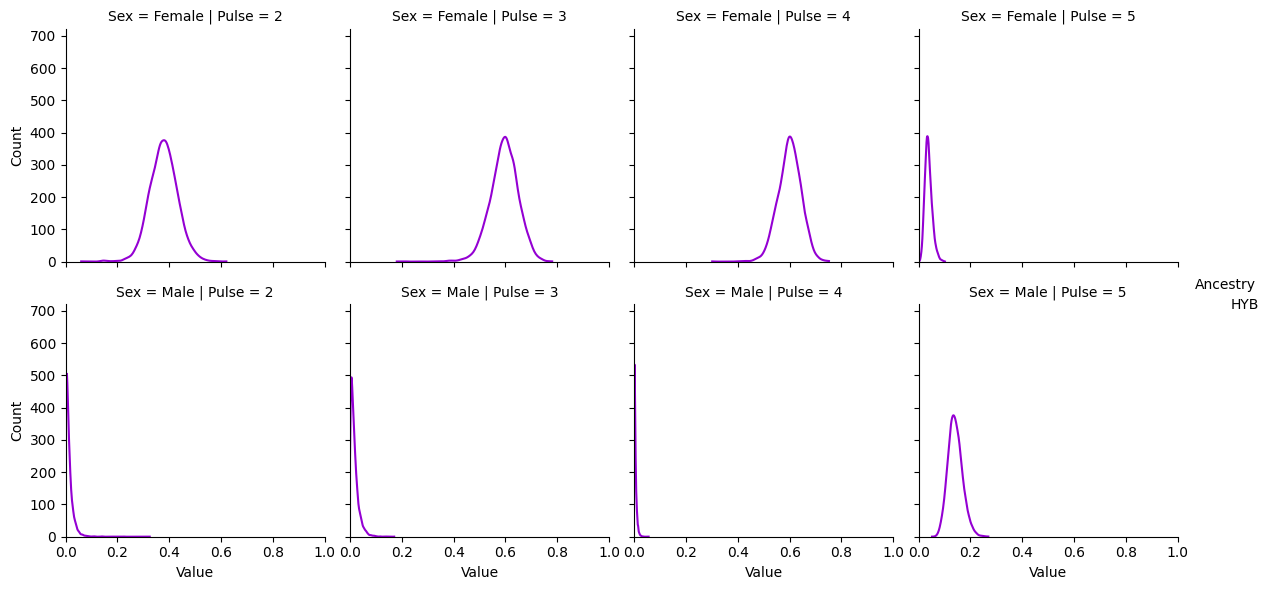
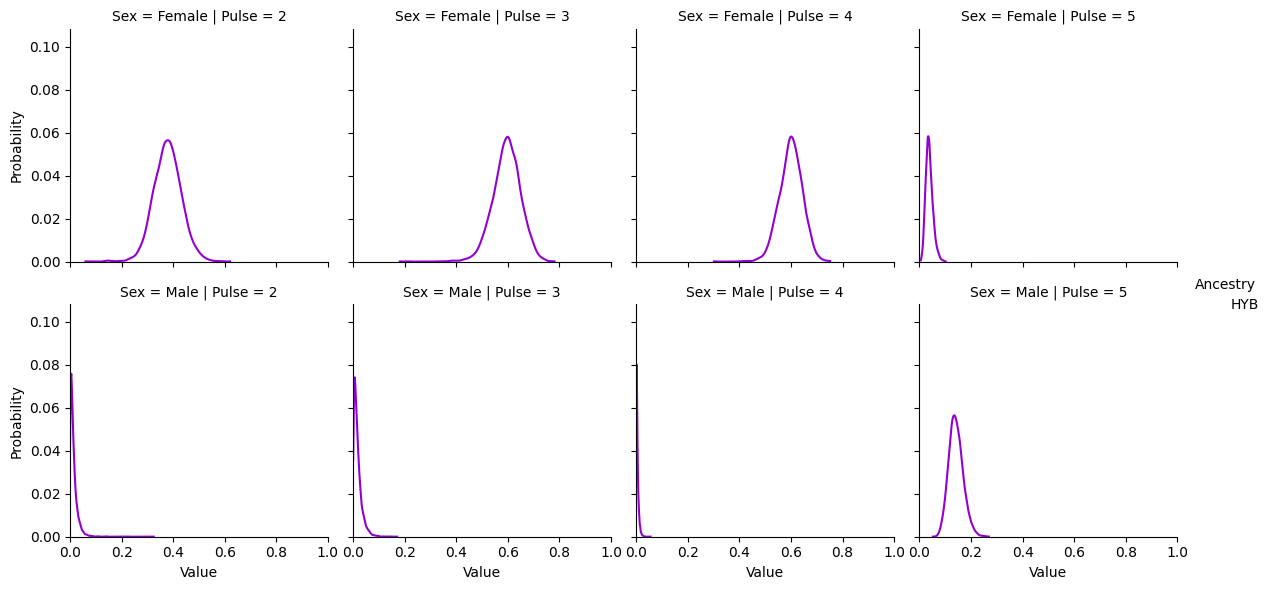
adding filter by confidence interval

diff --git a/script.py b/script.py
@@ -3,7 +3,7 @@ import seaborn as sns
 import numpy as np
 import matplotlib.pyplot as plt
 import math
-import scipy.stats
+import scipy.stats as st
 import csv
 import os
 
@@ -62,7 +62,7 @@ def plot_histograms(df, hybrid, type, savefile):
         colors = ["red", "deepskyblue", "green", "darkviolet"]
 
     graph = sns.FacetGrid(df_temp, col="Pulse", row="Sex", hue="Ancestry", palette=colors)
-    graph = (graph.map_dataframe(sns.histplot, x="Value", multiple=type).add_legend())
+    graph = (graph.map_dataframe(sns.histplot, x="Value", multiple=type, stat='probability').add_legend())
     # graph.set(yscale="log")
     plt.xlim([0, 1])
     graph.savefig(savefile)
@@ -79,7 +79,7 @@ def plot_lines(df, hybrid, savefile):
         colors = ["red", "deepskyblue", "green", "darkviolet"]
 
     graph = sns.FacetGrid(df_temp, col="Pulse", row="Sex", hue="Ancestry", palette=colors)
-    graph = (graph.map_dataframe(sns.histplot, x="Value", fill=False, edgecolor="k", linewidth=0, kde=True).add_legend())
+    graph = (graph.map_dataframe(sns.histplot, x="Value", fill=False, linewidth=0, kde=True, stat='probability').add_legend())
     # graph.set(yscale="log")
     plt.xlim([0, 1])
     graph.savefig(savefile)
@@ -113,19 +113,68 @@ def filter(percentage, df_unfiltered):
     df_filtered = df_filtered[~df_filtered["Scenario"].isin(scenarios)]
     return df_filtered
 
+def filter_ci(percentage, df_unfiltered):
+    ancestries = ("EUR", "AFR", "NAT", "HYB")
+    sexes = ("Female", "Male")
+    scenarios = set(())
+    df_filtered = df_unfiltered
+
+    for sex in range(0,2):
+        for pulse in range(1,6):
+            for anc in range(0,4):
+                #selecting only the values from this pulse, sex and ancestry
+                df_temp = df_filtered[(df_filtered["Pulse"] == pulse) & (df_filtered["Sex"] == sexes[sex]) & (df_filtered["Ancestry"] == ancestries[anc])]
+
+                mean_temp = df_temp["Value"].mean()
+                std_temp = df_temp["Value"].std(ddof=0)
+                sqrt_size_temp = np.sqrt(len(df_temp))
+
+                print(f'Pulse', pulse, sexes[sex], ancestries[anc])
+
+                print(f'mean, std and sqrt_size:', mean_temp, std_temp, sqrt_size_temp)
+
+                #calculating confidence interval bounds
+                ci_inf = mean_temp - 1.64*(std_temp/sqrt_size_temp)
+                ci_sup = mean_temp + 1.64*(std_temp/sqrt_size_temp)
+
+                print(ci_inf, ci_sup)
+
+                size = df_temp.shape[0]
+                #avoiding the null stats (HYB percentages in the first pulse)
+                if ci_inf != 0:
+                    #searches for the scenarios that are outside the 90% HDR
+                    for i in range(size):
+                        #if the value is outside the quantiles, we add to the set of scenarios which will be filtered out
+                        if ((df_temp.iloc[i][4] < ci_inf) or (df_temp.iloc[i][4] > ci_sup)):
+                            scenarios.add(df_temp.iloc[i][0])
+
+    #applies the HDR filter
+    df_filtered = df_filtered[~df_filtered["Scenario"].isin(scenarios)]
+    # print(df_filtered.head(10))
+    return df_filtered
+
+
 # Function to find mode from the continuous data
 def find_mode(df):
+    return 0
     if df.empty:
         return 0
     
     x,y = sns.histplot(df, x="Value", fill=False, edgecolor="k", linewidth=0, kde=True).get_lines()[0].get_data()
     # print(np.shape(x), np.shape(y))
     
-    for it in y:
-        print(it)
-
     max_prob = 0
     mode = 0
+    it = 0
+    for prob in y:
+        it+=1
+        print(prob)
+        if prob > max_prob:
+            max_prob = prob
+    
+    
+
+    print(f'Max probability is:', max_prob)
 
     # for ind in df.index:
     #     value = df["Value"][ind]
@@ -151,7 +200,7 @@ def write_stats(df, file_name):
                     for k in range (0, 4):
                         df_temp = df.loc[(df["Pulse"] == j) & (df["Sex"] == sexes[i])]
                         anc = df_temp.loc[(df_temp["Ancestry"] == ancestries[k])]
-                        
+                        # print(f'Pulse', j, sexes[i], ancestries[k])
 
                         row = [sexes[i], j, ancestries[k], anc["Value"].min(), anc["Value"].mean(), anc["Value"].median(), find_mode(anc), anc["Value"].max(), anc["Value"].std()]
                         writer.writerow(row)
@@ -212,7 +261,7 @@ create_directories()
 write_stats(df_new, "./stats_NO_HDR.csv")
 
 #filtering for only 90% of density
-df_new = filter(90, df_new)
+df_new = filter_ci(90, df_new)
 
 # plot_histograms(df_new, "with_hybrid", "layer", "./HDR/Standard/histogram.png")
 # plot_lines(df_new, "with_hybrid", "./HDR/Standard/line_graph.png")
